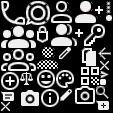
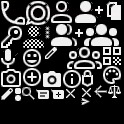
dev

diff --git a/pwa/js/view/home/updates/verbal/overlay.js b/pwa/js/view/home/updates/verbal/overlay.js
@@ -60,7 +60,7 @@ v.gadgets.push(g = v.audienceGad = new fg.Gadget(v))
 v.gadgets.push(g = v.micSendGad = new fg.Gadget(v))
   g.actionFlags = fg.GAF_CLICKABLE
   g.x = 20, g.y = 20, g.w = 128, g.h = 128
-  g.iconMic = '\x11'
+  g.iconMic = '\x13'
   g.iconSend = '\x3e'
   g.icon = g.iconMic
   g.buttonFaceColor = colors.accent
